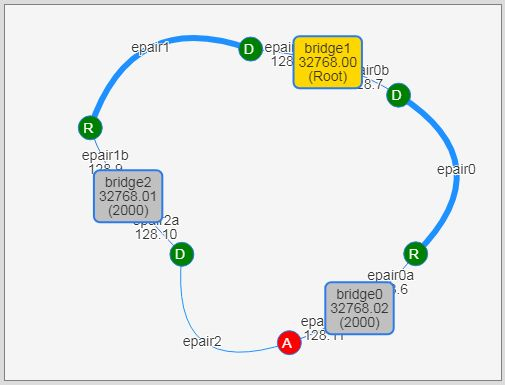
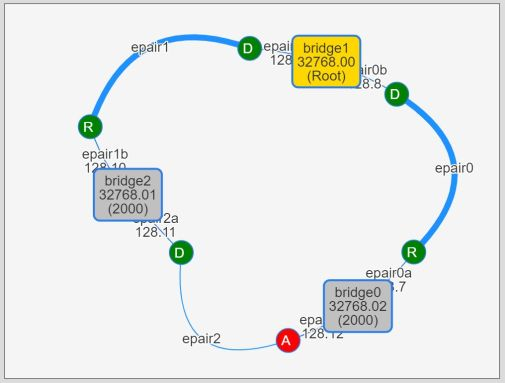
WIP - RSTP article.

diff --git a/content/playing-with-bsd/networking/learning-stp.md b/content/playing-with-bsd/networking/learning-stp.md
@@ -9,7 +9,9 @@ Spanning Tree Protocol is a standard protocol for network bridges (layer-two swi
 
 Several variants have been developed since its birth, in which the most common standard is Rapid Spanning Tree Protocol (RSTP). Many managed switches implement the protocol and often enable it by default.
 
-Although it's quite common in the networking world where I'm living in its perimeter, it's been something vague and unfamiliar to me for a long time. Maybe it's because I came from the application layer and gradually went down to lower layers. I can clearly recall the excitement when I sent an email by directly talking to a SMTP server using telnet client for the first time. After all, I'm more interested in the higher layers and I haven't given much attention to the layer one and two.
+Although it's quite common in the networking world where I'm living in its perimeter, it's been something vague and unfamiliar to me for a long time. Maybe it's because I came from the application layer and gradually went down to lower layers [^0]. After all, I'm more interested in the higher layers and I haven't given much attention to the layer one and two.
+
+[^0]: I can clearly recall the excitement when I sent an email by directly talking to a SMTP server using telnet client for the first time.
 
 But recently I noticed that FreeBSD's if_bridge supports RSTP when I was playing with jails and reading related documents. I instantly felt that this is a good opportunity to learn the protocol.
 
@@ -215,17 +217,17 @@ With the help of additional scripts written in perl, bridge.sh can also summariz
 (I must confess again. Perl is my favorite scripting language.)
 ```
 $ ./bridge.sh show
-bridge0 32768.02:00:90:00:0b:0b desig root 32768.02:00:90:00:07:0b cost 2000
-  epair0a  proto rstp  id 128.6   cost   2000:       root / forwarding
-  epair2b  proto rstp  id 128.11  cost   2000: designated / discarding
+bridge0 32768.02:00:80:00:0c:0b desig root 32768.02:00:80:00:08:0b cost 2000
+  epair0a  proto rstp  id 128.7   cost   2000:       root / forwarding
+  epair2b  proto rstp  id 128.12  cost   2000:  alternate / discarding
 
-bridge1 32768.02:00:90:00:07:0b [root]
-  epair0b  proto rstp  id 128.7   cost   2000: designated / forwarding
-  epair1a  proto rstp  id 128.8   cost   2000: designated / forwarding
+bridge1 32768.02:00:80:00:08:0b [root]
+  epair0b  proto rstp  id 128.8   cost   2000: designated / forwarding
+  epair1a  proto rstp  id 128.9   cost   2000: designated / forwarding
 
-bridge2 32768.02:00:90:00:09:0b desig root 32768.02:00:90:00:07:0b cost 2000
-  epair1b  proto rstp  id 128.9   cost   2000:       root / forwarding
-  epair2a  proto rstp  id 128.10  cost   2000: designated / discarding
+bridge2 32768.02:00:80:00:0a:0b desig root 32768.02:00:80:00:08:0b cost 2000
+  epair1b  proto rstp  id 128.10  cost   2000:       root / forwarding
+  epair2a  proto rstp  id 128.11  cost   2000: designated / forwarding
 ```
 
 I got almost satisfied with those scripts. But I went on one step further.
@@ -255,7 +257,7 @@ As the root bridge operates in the core of a network, it's so important to confi
 
 In the Spanning Tree network, bridges exchange information and automatically elect a bridge with the lowest bridge id value as a root bridge in the network.
 
-A bridge id is a 8 octets (= bytes) value and is made up of two components - a bridge priority and a bridge MAC address. In the previous example of three bridges, strings like '32768.02:00:90:00:0b:0b' are bridge ids. The first part (e.g. '32768') is the bridge priority and the second part (e.g. '02:00:90:00:0b:0b') is the bridge's MAC address.
+A bridge id is a 8 octets (= bytes) value and is made up of two components - a bridge priority and a bridge MAC address. In the previous example of three bridges, strings like '32768.02:00:80:00:0c:0b' are bridge ids. The first part (e.g. '32768') is the bridge priority and the second part (e.g. '02:00:80:00:0c:0b') is the bridge MAC address.
 
 <style>
 .bl { color: blue; }
@@ -263,36 +265,36 @@ A bridge id is a 8 octets (= bytes) value and is made up of two components - a b
 </style>
 
 <pre><code>$ ./bridge.sh show
-bridge0 <b class="gr">32768</b>.<b class="bl">02:00:90:00:0b:0b</b> desig root 32768.02:00:90:00:07:0b cost 2000
-  epair0a  proto rstp  id 128.6   cost   2000:       root / forwarding
-  epair2b  proto rstp  id 128.11  cost   2000: designated / discarding
+bridge0 <b class="gr">32768</b>.<b class="bl">02:00:80:00:0c:0b</b> desig root 32768.02:00:80:00:08:0b cost 2000
+  epair0a  proto rstp  id 128.7   cost   2000:       root / forwarding
+  epair2b  proto rstp  id 128.12  cost   2000:  alternate / discarding
 
-bridge1 <b class="gr">32768</b>.<b class="bl">02:00:90:00:07:0b</b> [root]
-  epair0b  proto rstp  id 128.7   cost   2000: designated / forwarding
-  epair1a  proto rstp  id 128.8   cost   2000: designated / forwarding
+bridge1 <b class="gr">32768</b>.<b class="bl">02:00:80:00:08:0b</b> [root]
+  epair0b  proto rstp  id 128.8   cost   2000: designated / forwarding
+  epair1a  proto rstp  id 128.9   cost   2000: designated / forwarding
 
-bridge2 <b class="gr">32768</b>.<b class="bl">02:00:90:00:09:0b</b> desig root 32768.02:00:90:00:07:0b cost 2000
-  epair1b  proto rstp  id 128.9   cost   2000:       root / forwarding
-  epair2a  proto rstp  id 128.10  cost   2000: designated / discarding
+bridge2 <b class="gr">32768</b>.<b class="bl">02:00:80:00:0a:0b</b> desig root 32768.02:00:80:00:08:0b cost 2000
+  epair1b  proto rstp  id 128.10  cost   2000:       root / forwarding
+  epair2a  proto rstp  id 128.11  cost   2000: designated / forwarding
 </code></pre>
 
-While MAC address is normally unique and not user-configurable, bridge priority is meant to be configured by administrator. But recommended default of the bridge priority is 32768 and FreeBSD's if_bridge is no exception.
+While MAC address is normally unique and not user-configurable, bridge priority is meant to be configured by administrator.
 
-So without explicit configuration, bridge priorities could be the same across all bridges in a network. In that case, a bridge with the smallest MAC address is elected as a root bridge. This is effectively a random selection process.
+However, recommended default of the bridge priority is 32768 and FreeBSD's if_bridge is no exception. So without explicit configuration, bridge priorities could be the same across all bridges in a network. In that case, a bridge with the smallest MAC address is elected as a root bridge. This is effectively a random selection process.
 
 To avoid this, it is said that network administrators should set bridge priority of the candidate root bridge lower than other ordinary bridges.
 
 Because I didn't do that in the previous example, all bridges had the same priority value 32768 and bridge1, which happened to have the lowest MAC address among three became the root bridge.
 
-Note that MAC addresses are drastically shortened to 2-digit number (it's a hexadecimal actually) on the visualization app for brevity. They only represent relative magnitude among the bridges. Actual MAC address can be seen in a popup which appears by putting your mouse cursor over a bridge.
-
 ![3-bridge topology. bridge1 became a root](/images/learning-stp/rstp-3b-r1.jpg)
 
-Now let's try to make bridge0 a root bridge by configuring its bridge priority to a smaller value. Bridge priority can be changed with omnipotent ifconfig command. Here I set bridge0's priority to 4096 [^3].
+Note that MAC addresses are shortened to 2-digit hexadecimal numbers on the visualization app for brevity. They only represent relative magnitude among the bridges. Actual MAC address can be seen in a popup which appears by putting mouse cursor over a bridge.
+
+Now let's try to make bridge0 a root bridge by configuring its bridge priority to a smaller value. Bridge priority can be changed with omnipotent ifconfig command. Here I set bridge0's priority to the smallest possible value, 0 [^3].
 
 [^3]: Actually a bridge priority can be only a multiple of 4096 between 0 and 61440.
 ```
-$ sudo ifconfig bridge0 priority 4096
+$ sudo ifconfig bridge0 priority 0
 ```
 
 Change of bridge priority caused another election process and bridge0 became a new root bridge.
@@ -300,31 +302,130 @@ Change of bridge priority caused another election process and bridge0 became a n
 ![3-bridge topology. bridge0 became a root](/images/learning-stp/rstp-3b-r0.jpg)
 
 <pre><code>$ ./bridge.sh show
-bridge0 <b class="gr">4096</b>.<b class="bl">02:00:90:00:0b:0b</b> [root]
-  epair0a  proto rstp  id 128.6   cost   2000: designated / forwarding
-  epair2b  proto rstp  id 128.11  cost   2000: designated / forwarding
+bridge0 <b class="gr">0</b>.<b class="bl">02:00:80:00:0c:0b</b> [root]
+  epair0a  proto rstp  id 128.7   cost   2000: designated / forwarding
+  epair2b  proto rstp  id 128.12  cost   2000: designated / forwarding
 
-bridge1 <b class="gr">32768</b>.<b class="bl">02:00:90:00:07:0b</b> desig root 4096.02:00:90:00:0b:0b cost 2000
-  epair0b  proto rstp  id 128.7   cost   2000:       root / forwarding
-  epair1a  proto rstp  id 128.8   cost   2000: designated / forwarding
+bridge1 <b class="gr">32768</b>.<b class="bl">02:00:80:00:08:0b</b> desig root 0.02:00:80:00:0c:0b cost 2000
+  epair0b  proto rstp  id 128.8   cost   2000:       root / forwarding
+  epair1a  proto rstp  id 128.9   cost   2000: designated / forwarding
 
-bridge2 <b class="gr">32768</b>.<b class="bl">02:00:90:00:09:0b</b> desig root 4096.02:00:90:00:0b:0b cost 2000
-  epair1b  proto rstp  id 128.9   cost   2000:  alternate / discarding
-  epair2a  proto rstp  id 128.10  cost   2000:       root / forwarding
+bridge2 <b class="gr">32768</b>.<b class="bl">02:00:80:00:0a:0b</b> desig root 0.02:00:80:00:0c:0b cost 2000
+  epair1b  proto rstp  id 128.10  cost   2000:  alternate / discarding
+  epair2a  proto rstp  id 128.11  cost   2000:       root / forwarding
 </code></pre>
 
-It must be undesirable to change priority in production networks but it's okay because this is just an experiment. But if you want to configure a specific bridge to be a root bridge when creating a topology, you can use the -R flag of 'bridge.sh' script.
+It must be undesirable to change bridge priorities carelessly in a production network but it's okay in this experimental network. However, if you want to configure a specific bridge to be a root bridge when creating a topology, you can use bridge.sh script's -R (root) flag.
 
-For example, you can generate the same 3-bridge topology with the first bridge (e.g. bridge0) being a root bridge by running the following command. ``-R 1`` specifies that the first bridge to be a root bridge. The command sets its priority to 4096 while leaving other bridge's priority default 32768.
+For example, you can generate the same 3-bridge topology with the first bridge (e.g. bridge0) being a root bridge by running the following command. ``-R 1`` specifies that the first bridge to be a root bridge. The command sets its priority to 0 while leaving other bridge's priorities at default value of 32768. Without -R flag, all bridges will have default priority values.
 ```
 $ sudo ./bridge.sh ring -R 1 3
 ```
 
-### Determining a Root Port on Each Non-Root Bridge
+### Root Ports
+For each non-root bridge, a single root port is selected based on its distance (cost) to the root bridge. Basically, a port with the least cost becomes the root port on a bridge.
 
-### Determining Other Port Roles
+To calculate the distances, every RSTP-enabled port has a property called port pathcost. By default, it is automatically configured according to its link speed.
 
-### Reacting to Topology Changes
+In the previous example, all ports (epairs) have a cost of 2000, which is the default value for 10Gbps links! Running ifconfig on one of the epair interfaces let me confirm that they were configured as 10Gbase-T interfaces.
+```
+$ ifconfig epair0a
+epair0a: flags=8943<UP,BROADCAST,RUNNING,PROMISC,SIMPLEX,MULTICAST> metric 0 mtu 1500
+        options=8<VLAN_MTU>
+        ether 02:ff:00:00:07:0a
+        hwaddr 02:ff:00:00:07:0a
+        inet6 fe80::ff:ff:fe00:70a%epair0a prefixlen 64 scopeid 0x7
+        nd6 options=21<PERFORMNUD,AUTO_LINKLOCAL>
+        media: Ethernet 10Gbase-T (10Gbase-T <full-duplex>)
+        status: active
+        groups: epair
+```
+
+With this (all ports have pathcost 2000) in mind, let's look at each port's distance to the root bridge (it is called the port's root pathcost).
+
+On bridge1, epair0b's root pathcost is 2000 because bridge0 considers that the cost of the link attached to epair0b interface is 2000 and it is the only link required to reach the root bridge (bridge0). On the same bridge, epair1a's root pathcost is 4000 because there are two links (epair1 and epair2) between the interface and the root bridge thus the total root pathcost of epair1a is equal to 2000 + 2000. So, epair0b becomes the root port on bridge1 because it has the smallest root pathcost on the bridge.
+
+On bridge2, epair2a is selected as the root port in the same way.
+
+![Root Ports](/images/learning-stp/rstp-3b-r0.jpg)
+
+On each non-root bridge, a port closest to the root bridge becomes the root port on the bridge. Very simple.  
+But what if a bridge has more than one ports with the same root pathcost?
+
+There could be two cases for this. The first one is the case where a single bridge is connected to two or more other bridges and those bridges have the same root pathcost.
+
+Another case is that a single bridge has two or more links with the same pathcost to another bridge.
+
+There's no such situations in the previous example. So I tried to create them.
+
+The first case can be generated by adding a new bridge and connect it to both bridge1 and bridge2. To achieve this, I ran the follwoing commands.
+```
+sudo ./bridge.sh ring 1
+sudo ./bridge.sh connect bridge1 bridge3
+sudo ./bridge.sh connect bridge2 bridge3
+```
+
+Those commands added bridge3 and linked it to bridge2 and bridge3 with newly created epair3 and epair4 respectively. Here bridge3 has two ports, epair3b and epair4b, which have the same root pathcost of 4000.
+
+If a bridge has multiple ports with the least root pathcost, it choose a port connected to a neighboring bridge with the lowest bridge id as the root port. In this case, bridge3's neighbors are bridge1 (Shortend id: 32768.00)  and bridge2 (Shortend id: 32768.01) and bridge1 has the lower bridge id. bridge3 chose epair3b as the root port because it is connected to the lowest id neighbor, bridge1.
+
+![Root Port Selection with multiple equal-cost links 1](/images/learning-stp/rstp-4b-r0.jpg)
+
+The second case can be observed by adding a parallel link between bridge0 and bridge1. I ran the following command.
+```
+sudo ./bridge.sh connect bridge0 bridge1
+```
+
+This command added a new link epair5 between bridge0 and bridge1. Now bridge1 has two ports with the least root pathcost, epair0b and epair5b. This time, both ports also has the same neighbor, bridge0.
+
+If a bridge has multiple ports with the least root pathcost and the same neighbor, it choose a port whose neighbor port has the lowest port id. A port id is comprised of a port priority and a port index (number). As with the bridge id, port priority can be user-configurable while port index is determined by the system. Recommended default value of the port priority is 128. On the visualization app, port ids are shown like 128.7 where 128 is a priority and 7 is a port index.
+
+In this example, epair0b's neighbor epair0a's port id is 128.7 and epair5b's neighbor epair5a's port id is 128.12. Therefore, bridge1 continued to use epair0b as the root bridge even after epair5a was added as a parallel link to bridge0.
+
+![Root Port Selection with multiple equal-cost links 2](/images/learning-stp/rstp-4b-r0a.jpg)
+
+If you want bridge1 to use epair5b as its root port, you can set its neighbor port's priority to lower value. I tried this by running the following command [^4].
+[^4]: A port priority can be only a multiple of 16 between 0 and 240.
+```
+sudo ifconfig bridge0 ifpriority epair5a 64
+```
+
+Now epair5b's neighbor epair5a's port id was changed to 64.12 while epair0b's neighbor epair0a's port id is unchanged at 128.7. So bridge1 changes its root port from epair0b to epair5b.
+
+![Root Port Selection with multiple equal-cost links 3](/images/learning-stp/rstp-4b-r0b.jpg)
+
+### Designated and Alternate Ports
+After selecting root ports, each bridge selects designated ports out of the remaining ports. I think a designated port is somewhat like a gateway in IP terminology. That is, a designated port is a port on a link through which another port on the link can reach the root bridge with the minimum root pathcost. I was confused with the distinction between selection processes of root port and designated port but in summary:
+
+* Root port is selected according to the distance FROM the port.
+* Designated port is selected according to the distance THROUGH the port, the bridge it belongs to and its root port.
+
+On each link, a port on a bridge whose root port has the lowest root pathcost becomes the designated port on that link. Then remaining ports which aren't selected as root or designated port become the alternate port and block traffic to prevent loop.
+
+Let's look at an earlier example again. 
+
+![Designated and Alternate Ports](/images/learning-stp/rstp-3b-r0.jpg)
+
+All ports on the root bridge (epair0a and epair2b) become designated ports because those ports are apparently closest exits to the root bridge on their links (epair0 and epair2).
+
+On the link between bridge1 and bridge2 (epair1), epair1a on bridge1 and epair1b on bridge2 have the same root pathcost of 2000. In this case, a port belonging to the bridge with the lowest bridge id becomes the designated port on the link.
+
+Here bridge1's (shortened) id is 32768.00 while bridge2's is 32768.01, thus on epair1 link epair1a on bridge1 became the designated port and epair1b on bridge2 became the alternate port.
+
+### Topology Changes
+Next I wanted to see how RSTP reacts to topology changes.
+
+For this, I wiped the previous topology and created 4-bridge full-mesh topology with the following commands.
+```
+$ sudo ./bridge.sh destroy-all
+$ sudo ./bridge.sh mesh -R 1 4
+```
+
+![4 Bridge Mesh Topology 1](/images/learning-stp/rstp-4b-mesh-01.jpg)
+
+Here bridge0 became the root bridge. Other bridges selected their ports directly connected to the root bridge (epair0b on bridge1, epair1b on bridge2 and epair2b on bridge3) as the root ports.
+
+On each of the other links (epair3, epair4 and epair5), ports on both ends have the same pathcosts through its bridge's root port. So on each link, a port on the lowest id bridge became the designated port and another port became the alternate port.
 
 ## Quick Start
 1. Install the prerequisites.
